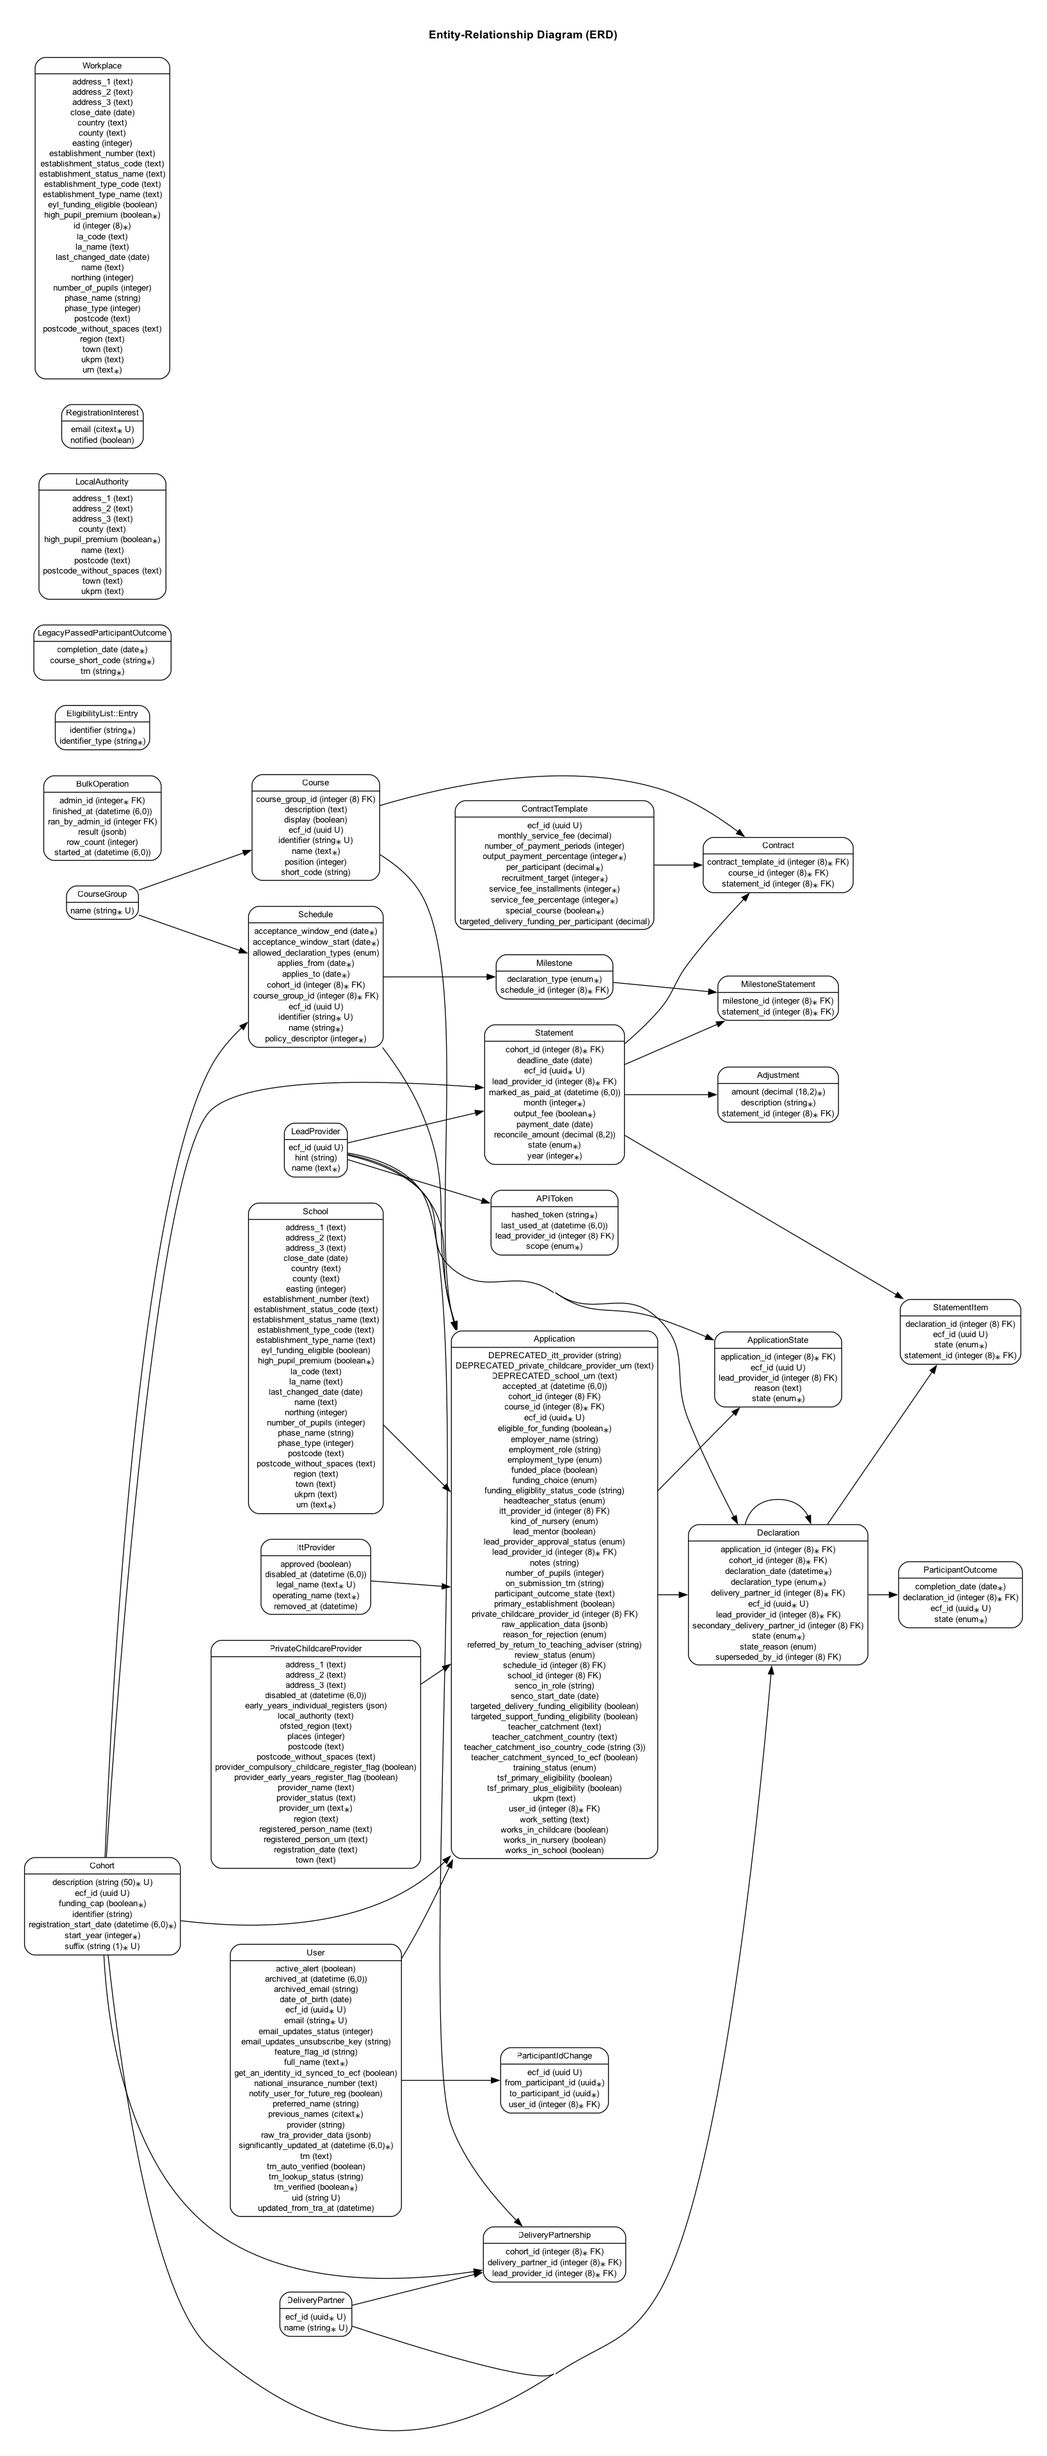
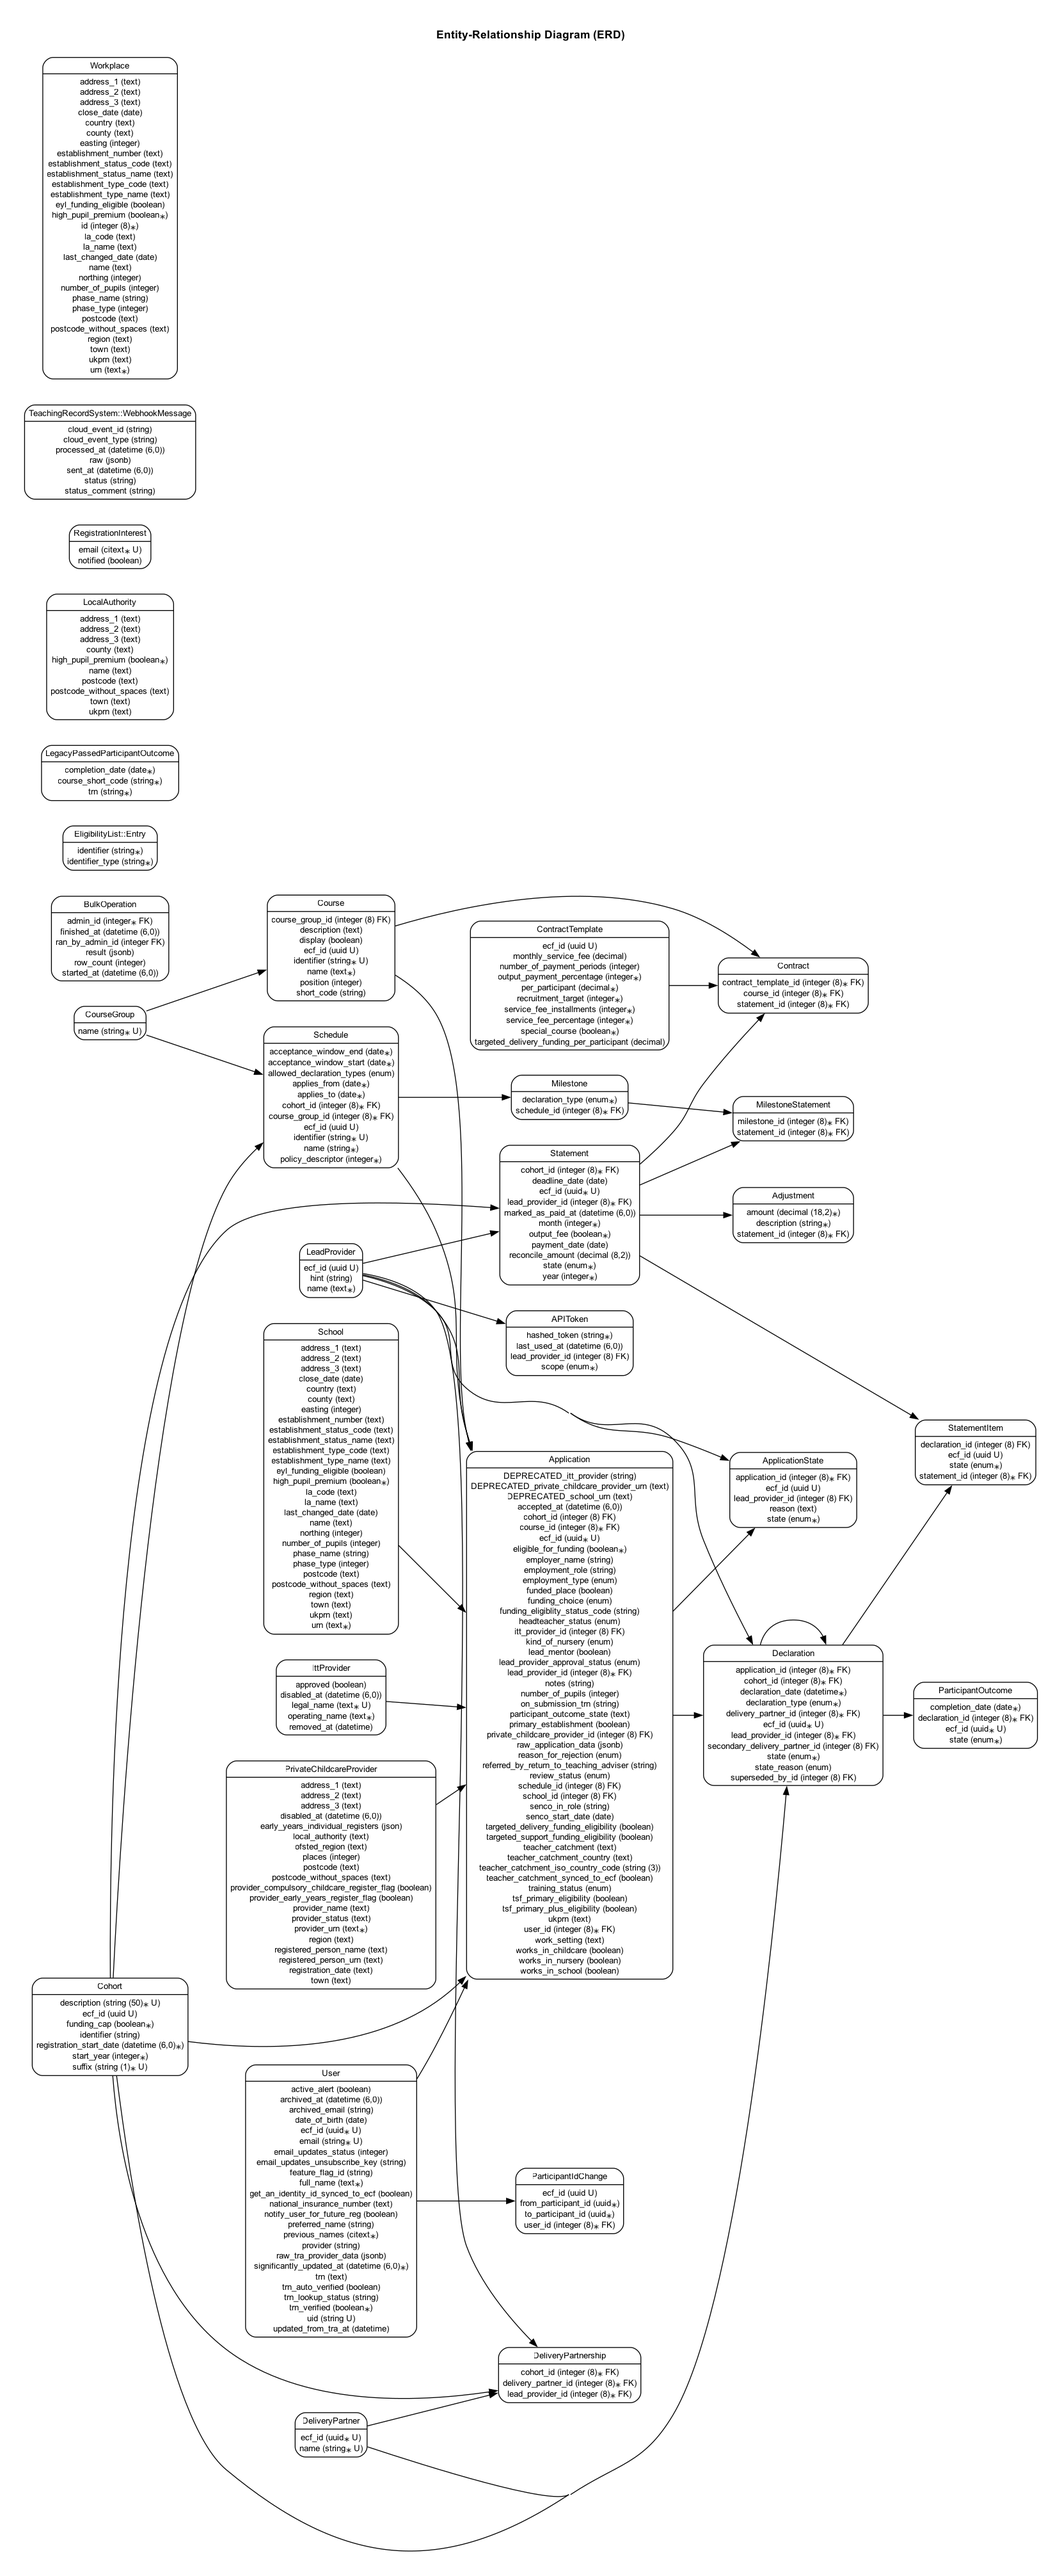
receive and verify TRS webhook messages

diff --git a/spec/requests/api/teaching_record_system/v1/webhook_messages_spec.rb b/spec/requests/api/teaching_record_system/v1/webhook_messages_spec.rb
@@ -1,0 +1,101 @@
+require "rails_helper"
+
+RSpec.describe "Teaching Record System webhooks", type: :request do
+  describe "POST /api/v1/teaching_record_system/webhook_messages" do
+    subject { post(path, headers:, params: body) }
+
+    let(:path) { "/api/v1/teaching_record_system/webhook_messages" }
+    let(:key_id) { "key1" }
+    let(:key) { Linzer.generate_ecdsa_p384_sha384_key(key_id) }
+    let(:public_key) { Linzer.new_ecdsa_p384_sha384_key(key.material.public_to_pem) }
+    let(:content_digest) { "sha-256=:#{Base64.strict_encode64(Digest::SHA256.digest(body))}" }
+    let(:components) { %w[@target-uri content-digest content-length ce-id ce-type ce-time] }
+
+    let(:body) do
+      {
+        "oneLoginUser": {
+          "subject": "something",
+          "emailAddress": "user@example.com",
+        },
+        "connectedPerson": {
+          "trn": "0000000",
+        },
+      }.to_json
+    end
+
+    let(:example_signed_request) do
+      Net::HTTP::Post.new(URI("http://www.example.com#{path}")).tap do |request|
+        request.body = body
+        request["content-digest"] = content_digest
+        request["content-length"] = request.body.length.to_s
+        request["ce-id"] = SecureRandom.uuid
+        request["ce-type"] = "one_login_user.updated"
+        request["ce-time"] = Time.zone.now.iso8601
+        request.content_type = "application/json"
+        Linzer.sign!(request, key:, components:, label: "whsig")
+      end
+    end
+
+    context "when a valid signed request is made" do
+      let(:headers) do
+        example_signed_request
+          .to_hash
+          .select { |key, _value| key.start_with?("signature") || components.include?(key) }
+          .transform_values(&:first)
+      end
+
+      let(:trs_jwks) do
+        jwk = JWT::JWK.import(public_key.material, alg: "ES384", kid: key_id, use: "sig")
+        JWT::JWK::Set.new(jwk).export.to_json
+      end
+
+      before { stub_request(:get, "#{ENV.fetch('TRS_API_URL')}/webhook-jwks").to_return_json(body: trs_jwks) }
+
+      it "creates a webhook message record" do
+        expect { subject }.to change(TeachingRecordSystem::WebhookMessage, :count).by(1)
+        webhook_message = TeachingRecordSystem::WebhookMessage.last
+        expect(webhook_message.status_comment).to be_nil
+        expect(webhook_message.status).to eq("pending")
+        expect(webhook_message.raw).to eq(body)
+      end
+    end
+
+    context "when a invalid signed request is made" do
+      let(:headers) do
+        example_signed_request
+          .to_hash
+          .select { |key, _value| key == "signature-input" || components.include?(key) }
+          .transform_values(&:first).merge({ "signature" => "invalidsignature" })
+      end
+
+      it "returns a 401 response" do
+        subject
+        expect(response.status).to eq 401
+      end
+
+      it "does not create a webhook message record" do
+        subject
+        expect(TeachingRecordSystem::WebhookMessage.count).to eq 0
+      end
+    end
+
+    context "when an unsigned request is made" do
+      let(:headers) do
+        example_signed_request
+          .to_hash
+          .select { |key, _value| components.include?(key) }
+          .transform_values(&:first)
+      end
+
+      it "returns a 401 response" do
+        subject
+        expect(response.status).to eq 401
+      end
+
+      it "does not create a webhook message record" do
+        subject
+        expect(TeachingRecordSystem::WebhookMessage.count).to eq 0
+      end
+    end
+  end
+end

diff --git a/app/controllers/api/v1/teaching_record_system/webhook_messages_controller.rb b/app/controllers/api/v1/teaching_record_system/webhook_messages_controller.rb
@@ -1,0 +1,30 @@
+module API
+  module V1
+    module TeachingRecordSystem
+      class WebhookMessagesController < ActionController::API
+        def create
+          # TODO: restrict to only accept requests with ce-type of "one_login_user.updated"
+          #  currently we are receiving "alert.updated" events for testing purposes
+          Linzer.verify!(request.rack_request) do |key_id|
+            # TODO: cache this key for a day
+            key(key_id)
+          end
+          ::TeachingRecordSystem::WebhookMessage.create!(status: :pending, raw: request.raw_post)
+          head :ok
+        rescue Linzer::Error => e
+          Rails.logger.error("Failed to verify webhook message: #{e.message}")
+          head :unauthorized
+        end
+
+      private
+
+        def key(key_id)
+          trs_jwks_endpoint = "#{ENV.fetch('TRS_API_URL')}/webhook-jwks"
+          jwks = JWT::JWK::Set.new(JSON.parse(Net::HTTP.get(URI(trs_jwks_endpoint)))) # TODO: what about http failures? use Net::HTTP.get_response ?
+          jwk = jwks.select { |key| key[:kid] == key_id }.first
+          Linzer.new_ecdsa_p384_sha384_key(jwk.verify_key.to_pem, key_id) if jwk # TODO: test when jwk nil
+        end
+      end
+    end
+  end
+end

diff --git a/db/schema.rb b/db/schema.rb
@@ -10,7 +10,7 @@
 #
 # It's strongly recommended that you check this file into your version control system.
 
-ActiveRecord::Schema[8.0].define(version: 2026_02_10_164307) do
+ActiveRecord::Schema[8.0].define(version: 2026_03_03_110835) do
   # These are extensions that must be enabled in order to support this database
   enable_extension "btree_gin"
   enable_extension "citext"
@@ -608,6 +608,18 @@ ActiveRecord::Schema[8.0].define(version: 2026_02_10_164307) do
     t.index ["ecf_id"], name: "index_statements_on_ecf_id", unique: true
     t.index ["lead_provider_id", "cohort_id", "year", "month"], name: "idx_on_lead_provider_id_cohort_id_year_month_2dece26c47", unique: true
     t.index ["lead_provider_id"], name: "index_statements_on_lead_provider_id"
+  end
+
+  create_table "teaching_record_system_webhook_messages", force: :cascade do |t|
+    t.string "cloud_event_type"
+    t.string "cloud_event_id"
+    t.string "status", default: "pending"
+    t.string "status_comment"
+    t.jsonb "raw"
+    t.datetime "sent_at"
+    t.datetime "processed_at"
+    t.datetime "created_at", null: false
+    t.datetime "updated_at", null: false
   end
 
   create_table "users", force: :cascade do |t|

diff --git a/db/migrate/20260303110835_create_teaching_record_system_webhook_messages.rb b/db/migrate/20260303110835_create_teaching_record_system_webhook_messages.rb
@@ -1,0 +1,14 @@
+class CreateTeachingRecordSystemWebhookMessages < ActiveRecord::Migration[8.0]
+  def change
+    create_table :teaching_record_system_webhook_messages do |t|
+      t.string "cloud_event_type"
+      t.string "cloud_event_id"
+      t.string "status", default: "pending"
+      t.string "status_comment"
+      t.jsonb "raw"
+      t.datetime "sent_at"
+      t.datetime "processed_at"
+      t.timestamps
+    end
+  end
+end

diff --git a/config/routes.rb b/config/routes.rb
@@ -69,6 +69,9 @@ Rails.application.routes.draw do
       namespace :get_an_identity do
         resource :webhook_messages, only: %i[create]
       end
+      namespace :teaching_record_system do
+        resource :webhook_messages, only: %i[create]
+      end
     end
 
     namespace :v3, defaults: { format: :json } do

diff --git a/app/models/teaching_record_system/webhook_message.rb b/app/models/teaching_record_system/webhook_message.rb
@@ -1,0 +1,3 @@
+class TeachingRecordSystem::WebhookMessage < ApplicationRecord
+  self.table_name = "teaching_record_system_webhook_messages"
+end
